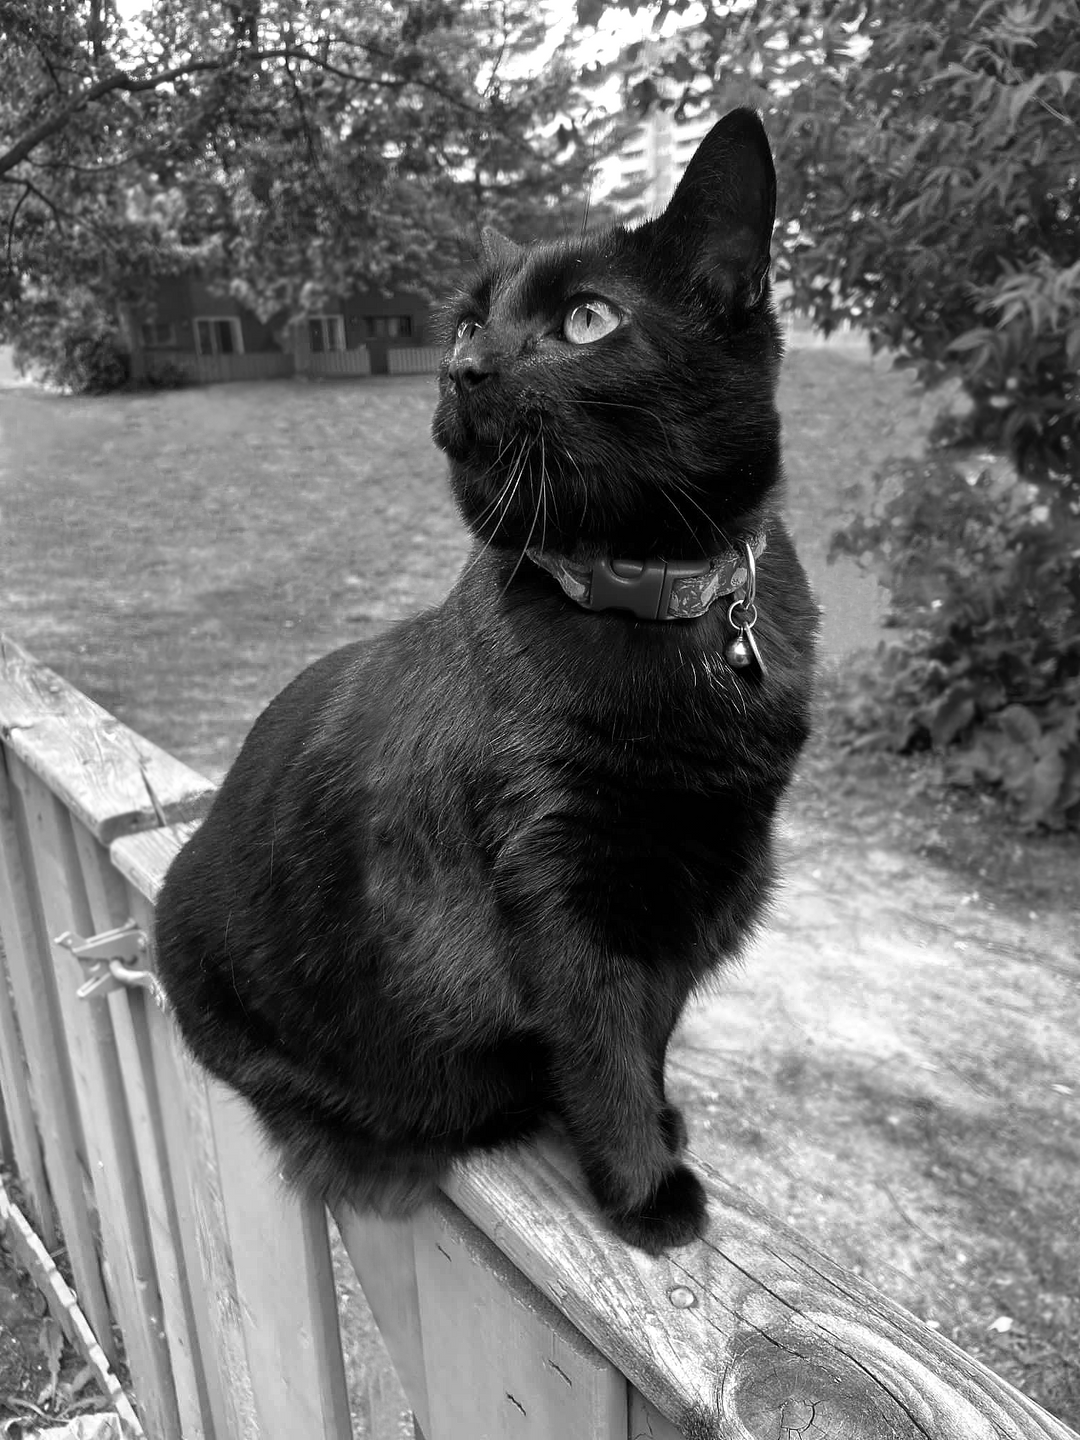
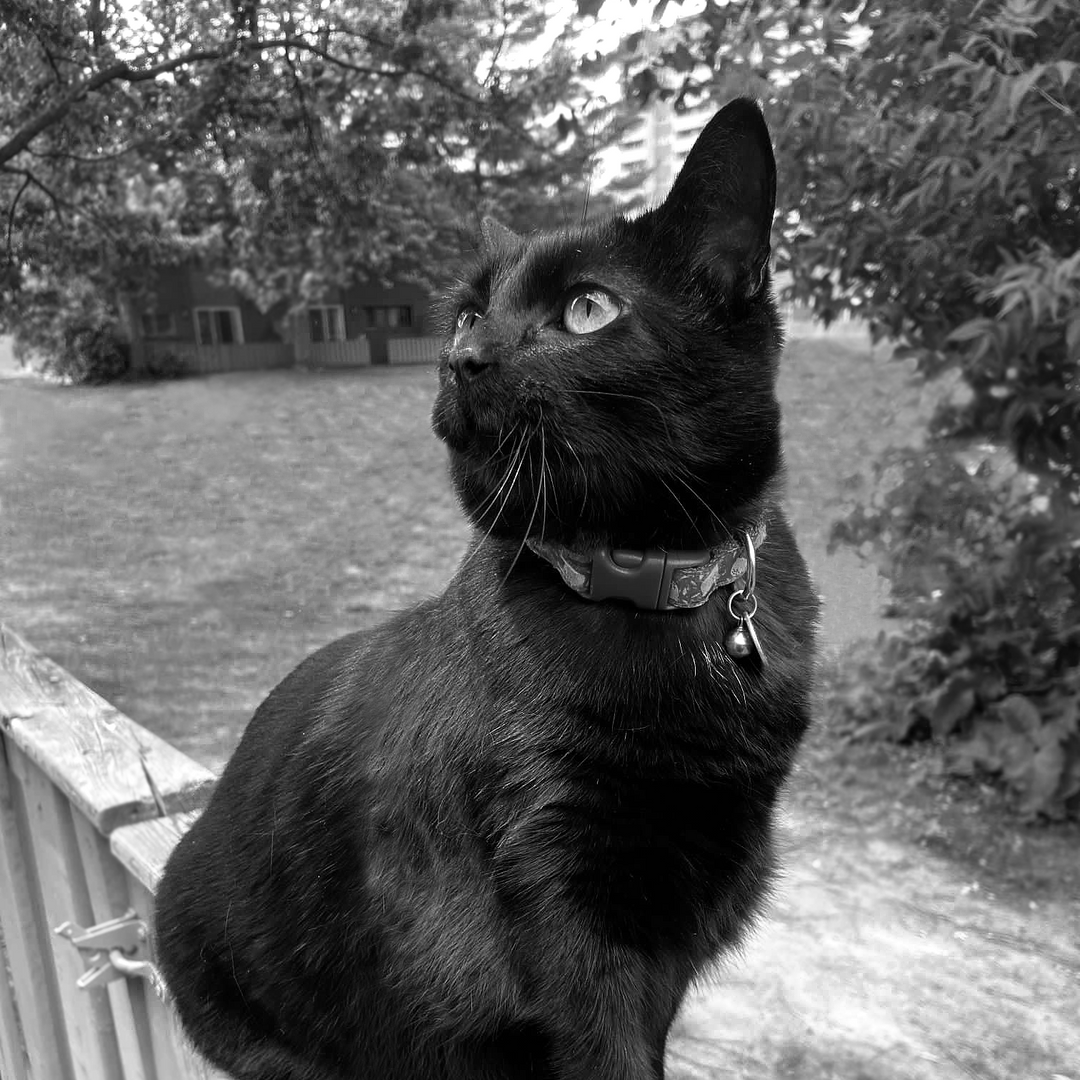
Fix Lucky image

diff --git a/home.html b/home.html
@@ -224,9 +224,7 @@
             </div>
           </div>
           <div class="unit xs-0 s-1 s-1-2 lucky">
-            <div class="rcorner">
-              <img class="img-flex" src="/images/lucky.png" alt="Lucky the black cat">
-            </div>
+            <img class="img-flex rcorner" src="/images/lucky.png" alt="Lucky the black cat">
           </div>
         </div>
       </div>

diff --git a/css/main.css b/css/main.css
@@ -167,7 +167,7 @@ a:hover {
 .lucky {
   position: relative;
   padding-left: 3rem;
-  max-height: 400px;
+  max-height: 450px;
   overflow: hidden;
 }
 
